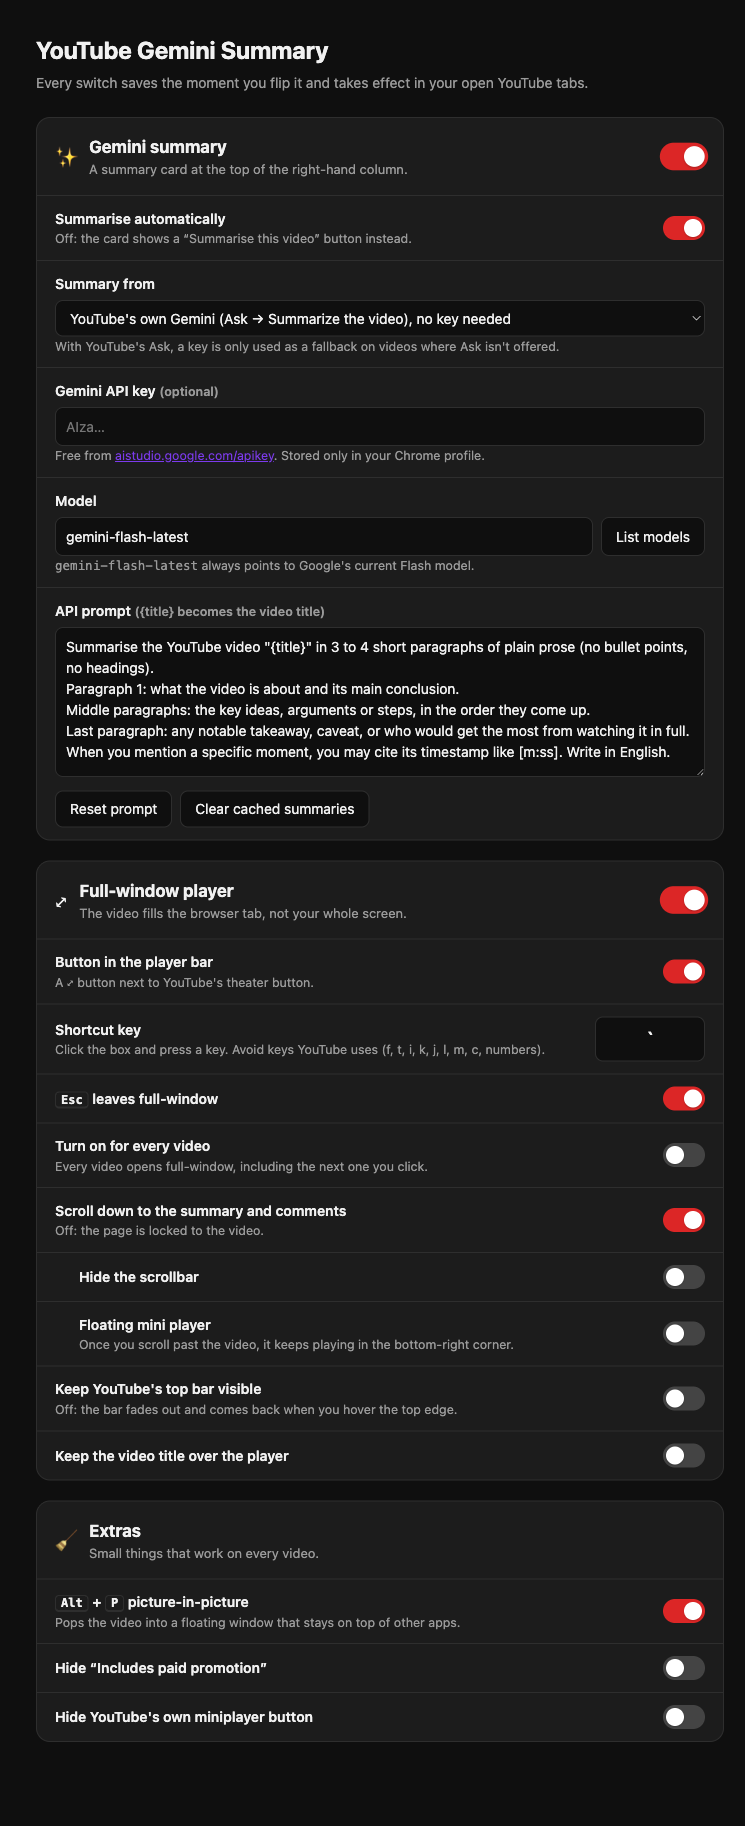
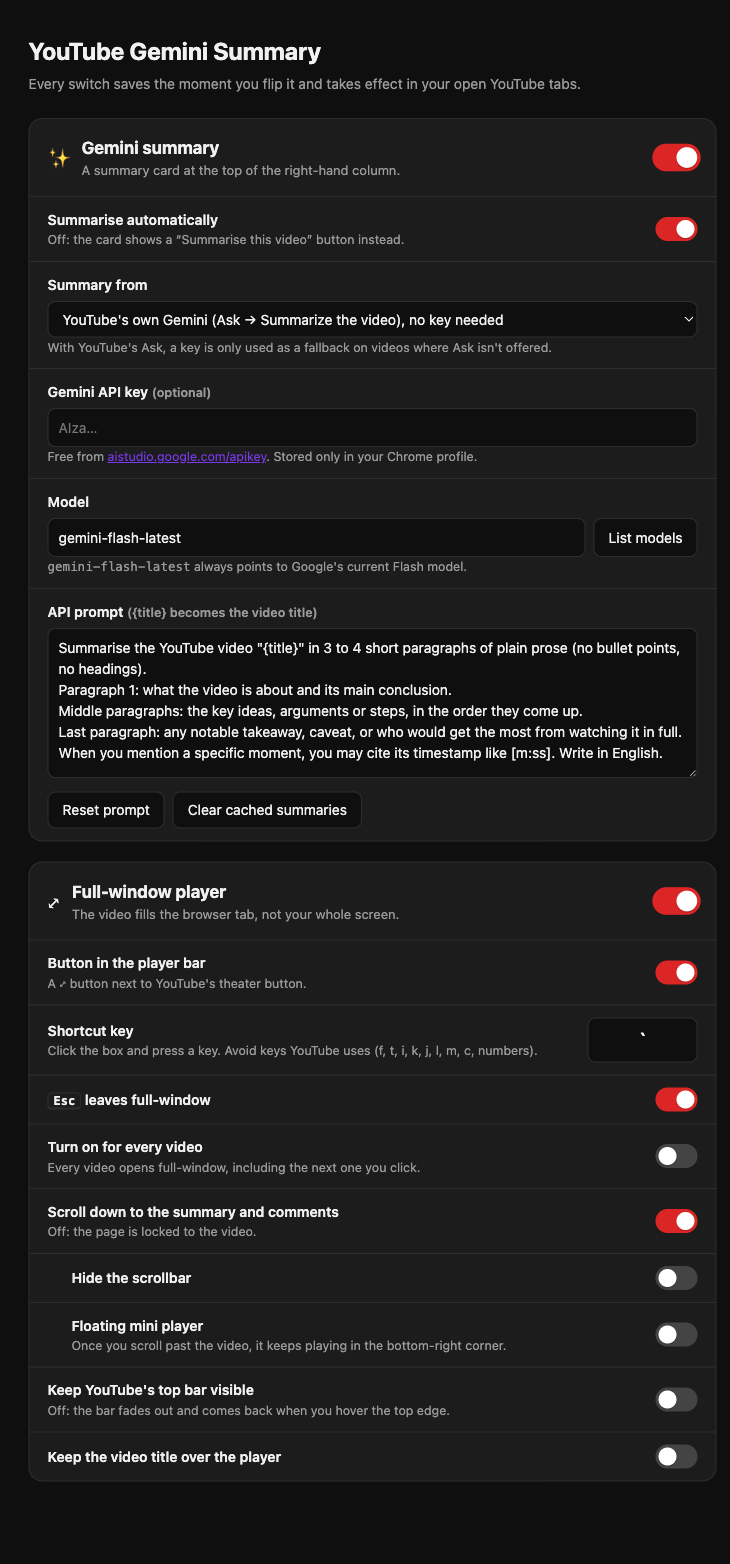
Remove the extras (picture-in-picture, hide paid promotion, hide miniplayer button); rename repo

diff --git a/fullwindow.js b/fullwindow.js
@@ -8,7 +8,7 @@
   const ICON_EXIT = "M896 960v448q0 26-19 45t-45 19-45-19l-144-144-332 332q-10 10-23 10t-23-10l-114-114q-10-10-10-23t10-23l332-332-144-144q-19-19-19-45t19-45 45-19h448q26 0 45 19t19 45zm755-672q0 13-10 23l-332 332 144 144q19 19 19 45t-19 45-45 19h-448q-26 0-45-19t-19-45v-448q0-26 19-45t45-19 45 19l144 144 332-332q10-10 23-10t23 10l114 114q10 10 10 23z";
 
   const KEYS = ["fwEnabled", "fwEscExits", "fwButton", "fwKey", "fwAuto", "fwScroll", "fwHideScrollbar", "fwTopBar",
-    "fwShowTitle", "fwMini", "fwPipKey", "fwHidePromo", "fwHideMiniBtn"];
+    "fwShowTitle", "fwMini"];
   let s = {};
   let on = false;
   let wasTheater = false;   // theater state before we entered, restored on exit
@@ -23,8 +23,6 @@
   // ---- settings ------------------------------------------------------------
   async function loadSettings() {
     s = { ...YTGS_DEFAULTS, ...(await chrome.storage.sync.get(KEYS)) };
-    document.body.classList.toggle("ytgs-hide-promo", !!s.fwHidePromo);
-    document.body.classList.toggle("ytgs-hide-minibtn", !!s.fwHideMiniBtn);
     if (on) applyClasses();
     if (!s.fwMini || !s.fwEnabled) setMini(false);
     if (!s.fwEnabled) exit();
@@ -107,16 +105,7 @@
   const typing = (t) => t?.closest?.("input, textarea, select, [contenteditable=''], [contenteditable='true']");
 
   document.addEventListener("keydown", (e) => {
-    if (!isWatch() || typing(e.target)) return;
-    // Picture-in-picture is an "extra": it works whether full-window is enabled or not.
-    if (s.fwPipKey && e.altKey && !e.ctrlKey && !e.metaKey && e.code === "KeyP") {
-      e.preventDefault();
-      const v = document.querySelector("#movie_player video");
-      if (document.pictureInPictureElement) document.exitPictureInPicture();
-      else v?.requestPictureInPicture?.();
-      return;
-    }
-    if (!s.fwEnabled) return;
+    if (!s.fwEnabled || !isWatch() || typing(e.target)) return;
     if (e.key === "Escape") { if (on && s.fwEscExits && !document.fullscreenElement) exit(); return; }
     if (e.ctrlKey || e.metaKey || e.altKey) return;
     if (s.fwKey && e.key.toLowerCase() === s.fwKey.toLowerCase()) {

diff --git a/options.html b/options.html
@@ -161,28 +161,6 @@
     </div>
   </section>
 
-  <!-- ============ EXTRAS ============ -->
-  <section class="card">
-    <header>
-      <span class="icon">🧹</span>
-      <div class="grow"><h2>Extras</h2><p>Small things that work on every video.</p></div>
-    </header>
-    <div class="rows">
-      <div class="row">
-        <div class="txt"><div class="name"><kbd>Alt</kbd> + <kbd>P</kbd> picture-in-picture</div>
-          <div class="desc">Pops the video into a floating window that stays on top of other apps.</div></div>
-        <label class="sw"><input type="checkbox" id="fwPipKey"><span></span></label>
-      </div>
-      <div class="row">
-        <div class="txt"><div class="name">Hide “Includes paid promotion”</div></div>
-        <label class="sw"><input type="checkbox" id="fwHidePromo"><span></span></label>
-      </div>
-      <div class="row">
-        <div class="txt"><div class="name">Hide YouTube's own miniplayer button</div></div>
-        <label class="sw"><input type="checkbox" id="fwHideMiniBtn"><span></span></label>
-      </div>
-    </div>
-  </section>
 
   <div id="status"></div>
   <script src="defaults.js"></script>

diff --git a/fullwindow.css b/fullwindow.css
@@ -76,8 +76,3 @@ body.ytgs-mini-on ytd-watch #player { position: relative; z-index: 2299 !importa
   display: flex; inset: 0; width: 100%; height: 35px; top: 0; border: 0; border-radius: 0; align-items: center;
 }
 #movie_player.ytgs-mini.ytgs-mini-tucked:hover .ytgs-mini-top { display: none; }
-
-/* ---- Small clean-ups --------------------------------------------------------------- */
-body.ytgs-hide-promo .ytp-paid-content-overlay,
-body.ytgs-hide-promo ytm-paid-content-overlay-renderer { display: none !important; }
-body.ytgs-hide-minibtn .ytp-miniplayer-button { display: none !important; }

diff --git a/defaults.js b/defaults.js
@@ -23,7 +23,4 @@ var YTGS_DEFAULTS = {
   fwShowTitle: false,     // keep the video title over the player
   fwMini: false,          // floating mini player once you scroll past the video
   fwEscExits: true,       // Esc leaves full-window
-  fwPipKey: true,         // Alt+P = picture-in-picture
-  fwHidePromo: false,     // hide "Includes paid promotion" overlay
-  fwHideMiniBtn: false,   // hide YouTube's own miniplayer button
 };

diff --git a/options.js b/options.js
@@ -3,7 +3,7 @@
 const $ = (id) => document.getElementById(id);
 
 const SWITCHES = ["summaryEnabled", "autoRun", "fwEnabled", "fwButton", "fwEscExits", "fwAuto", "fwScroll",
-  "fwHideScrollbar", "fwMini", "fwTopBar", "fwShowTitle", "fwPipKey", "fwHidePromo", "fwHideMiniBtn"];
+  "fwHideScrollbar", "fwMini", "fwTopBar", "fwShowTitle"];
 const TEXTS = ["apiKey", "model", "prompt"];
 
 let toastTimer;

diff --git a/docs/gen_svgs.py b/docs/gen_svgs.py
@@ -25,7 +25,7 @@ def hero():
          t(60, 118, "YouTube Gemini Summary", 50, weight=800),
          t(62, 160, "a summary of every video, and a player that fills the tab", 22, "#fecaca")]
     x = 62
-    for label, w in [("✨ Summary card", 170), ("⤢ Full-window player", 210), ("🧹 Extras", 120)]:
+    for label, w in [("✨ Summary card", 170), ("⤢ Full-window player", 210)]:
         p.append(pill(x, 200, label, w)); x += w + 14
     p.append(t(62, 290, "Chrome extension · uses YouTube's own Gemini · no API key", 15, "#fca5a5"))
     p.append(t(62, 314, "Every feature has its own on/off switch · Chrome, Edge and Brave", 15, "#fca5a5"))

diff --git a/README.md b/README.md
@@ -3,14 +3,13 @@
 </p>
 
 <p align="center">
-  <a href="https://github.com/fang89/Chrome-extension-youtubesummary/archive/refs/heads/main.zip"><img src="docs/download.svg" alt="⬇ Download the extension" width="420"></a>
+  <a href="https://github.com/fang89/Chrome-extension-youtubeimprovement/archive/refs/heads/main.zip"><img src="docs/download.svg" alt="⬇ Download the extension" width="420"></a>
 </p>
 
 <p align="center">
   <a href="#install">Install</a>
   &nbsp;·&nbsp; <a href="#-the-summary-card">Summary card</a>
   &nbsp;·&nbsp; <a href="#-the-full-window-player">Full-window player</a>
-  &nbsp;·&nbsp; <a href="#-extras">Extras</a>
   &nbsp;·&nbsp; <a href="#every-switch">Every switch</a>
   &nbsp;·&nbsp; <a href="#how-its-built">How it's built</a>
 </p>
@@ -118,23 +117,12 @@ itself. Leaving full window removes those rules.
 
 ---
 
-## 🧹 Extras
-
-Small things that work on every video, whether full window is on or not:
-
-- **<kbd>Alt</kbd> + <kbd>P</kbd> picture-in-picture.** Pops the video into a floating window that
-  stays on top of every app, for when you're working in something else.
-- **Hide "Includes paid promotion".** Removes that overlay from the start of sponsored videos.
-- **Hide YouTube's own miniplayer button**, if you keep clicking it by accident.
-
----
-
 ## Every switch
 
 Click the extension's toolbar icon. Each switch **saves as soon as you flip it** and applies to
 the YouTube tabs you already have open; there's no Save button and no reload.
 
-<p align="center"><img src="docs/settings.png" alt="The settings page: a card of switches for the summary, the full-window player and extras" width="560"></p>
+<p align="center"><img src="docs/settings.png" alt="The settings page: a card of switches for the summary and one for the full-window player" width="560"></p>
 
 | Switch | Default | What it does |
 |---|:-:|---|
@@ -154,9 +142,6 @@ the YouTube tabs you already have open; there's no Save button and no reload.
 | ↳ Floating mini player | Off | Video keeps playing in the corner once you scroll past it. |
 | Keep YouTube's top bar visible | Off | Off: the bar fades out and returns when you hover the top edge. |
 | Keep the video title over the player | Off | |
-| **🧹** <kbd>Alt</kbd>+<kbd>P</kbd> picture-in-picture | On | |
-| **🧹** Hide "Includes paid promotion" | Off | |
-| **🧹** Hide YouTube's miniplayer button | Off | |
 
 **Clear cached summaries** forgets every saved summary.
 
@@ -170,7 +155,7 @@ the YouTube tabs you already have open; there's no Save button and no reload.
 | **YouTube Ask driver**: clicks Ask → Summarize, waits for the answer, copies it safely | `youchat.js` | ~100 lines |
 | **Transcript reader**: opens *Show transcript*, reads the lines, closes it (API mode) | `transcript.js` | ~80 lines |
 | **Gemini API call**: runs in the extension's background worker (API mode) | `background.js` | ~55 lines |
-| **Full-window player**: player-bar button, shortcuts, theater → full-tab stretch, mini player, extras | `fullwindow.js` · `fullwindow.css` | ~185 + ~85 lines |
+| **Full-window player**: player-bar button, shortcuts, theater → full-tab stretch, mini player | `fullwindow.js` · `fullwindow.css` | ~175 + ~80 lines |
 | **Settings page**: switches that save instantly | `options.html` · `options.js` · `defaults.js` | ~280 lines |
 | **Card styles**: follow YouTube's light/dark theme colours | `panel.css` | ~35 lines |
 
